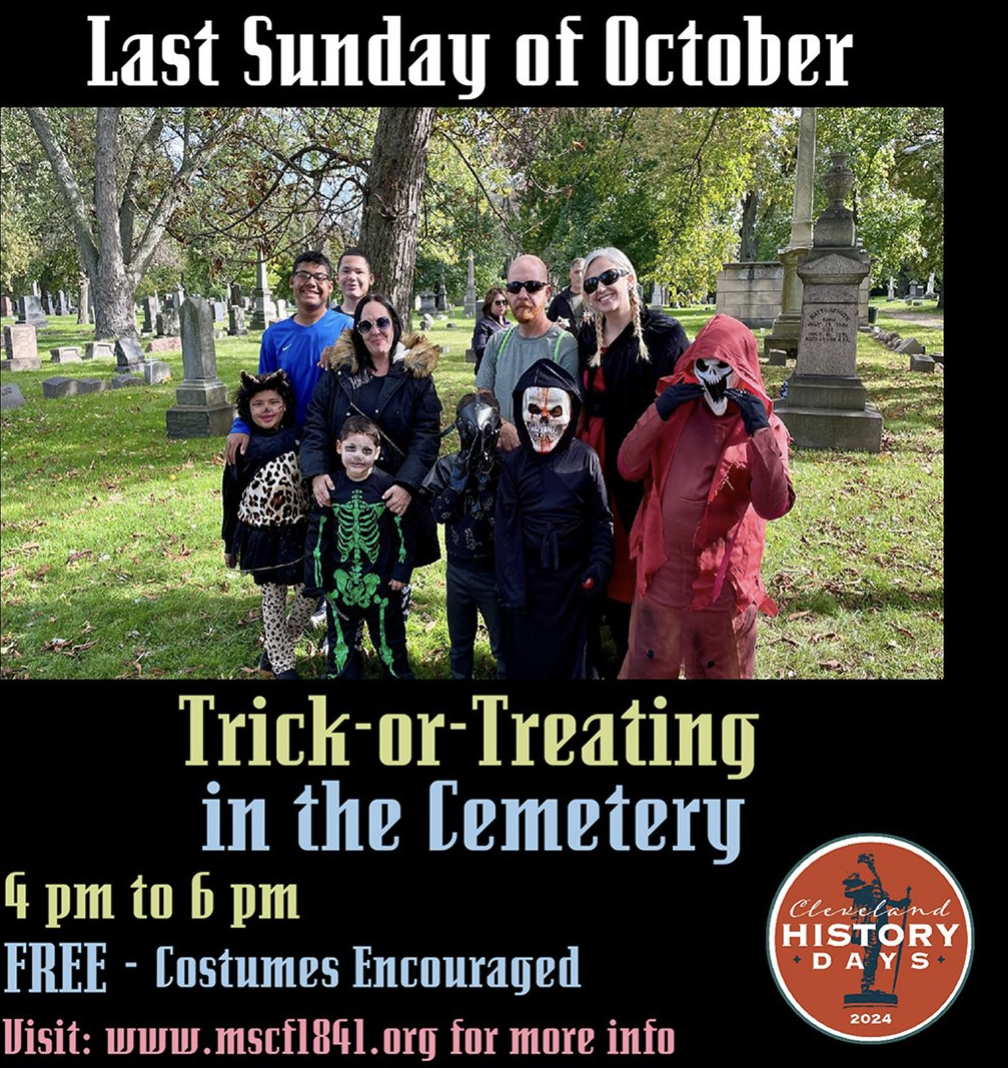
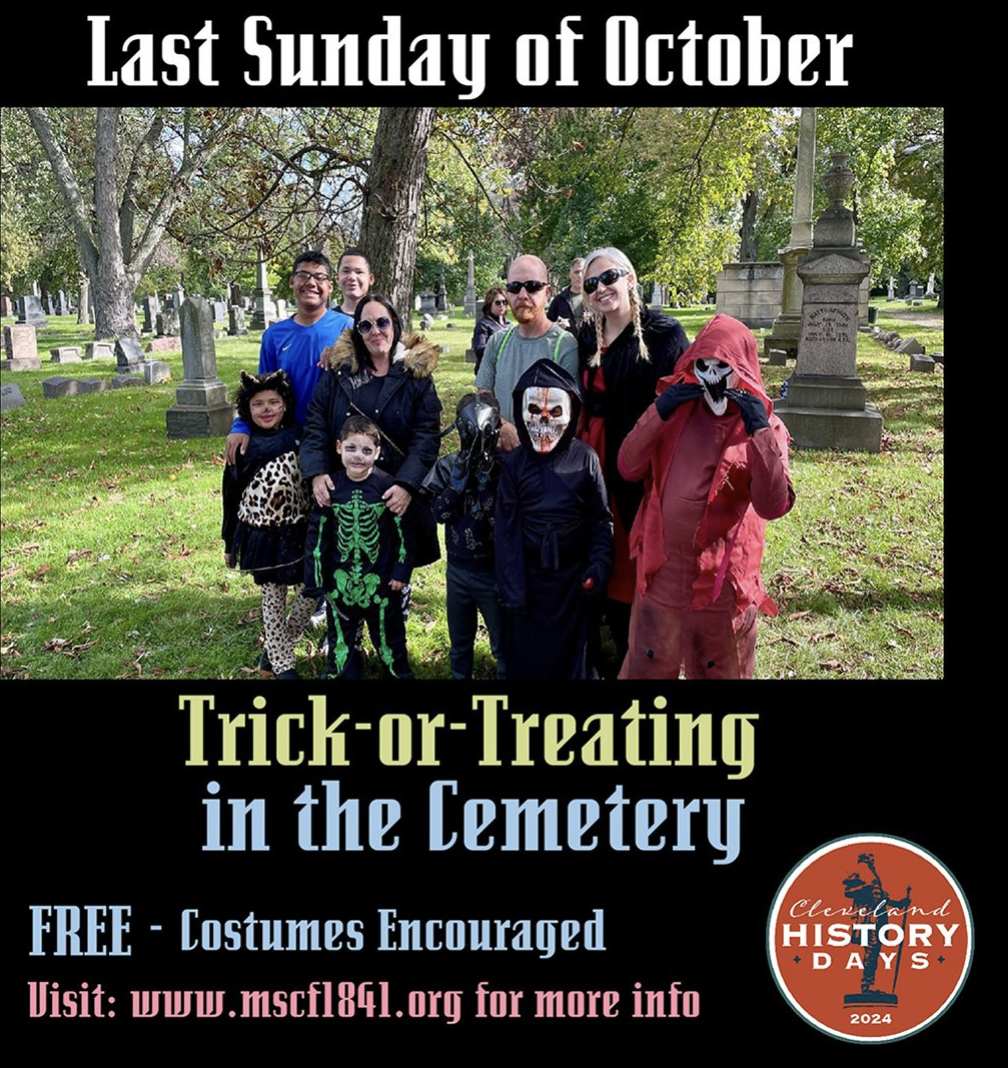
adjust times

Changed region(s): [[0.0, 0.8034, 0.7073, 1.0]]

diff --git a/pages/zombie-run.vue b/pages/zombie-run.vue
@@ -29,8 +29,7 @@ export default Vue.extend({
         <h2>To benefit the Monroe Street Cemetery Foundation</h2>
         <h3>Sunday October 12, 2025 9:00 am</h3>
         <h4>Clark Field, Cleveland, OH 44113</h4>
-        <p>Join us for an exciting run or walk along the Towpath Trail starting at Clark Field in Tremont. Dress up as a
-          Zombie or put on your scariest outfit! You'll be supporting an all-volunteer 501(c)(3) nonprofit organization
+        <p>Join us for an exciting run or walk along the Towpath Trail starting at Clark Field in Tremont. Come dressed in your best zombie apparel and run for your life! You'll be supporting an all-volunteer 501(c)(3) nonprofit organization
           that is actively working to preserve and enhance the historic cemetery grounds, plant and maintain trees,
           repair headstones, monuments and burial structures. In just the past few years, The Monroe Street Cemetery
           Foundation has:</p>
